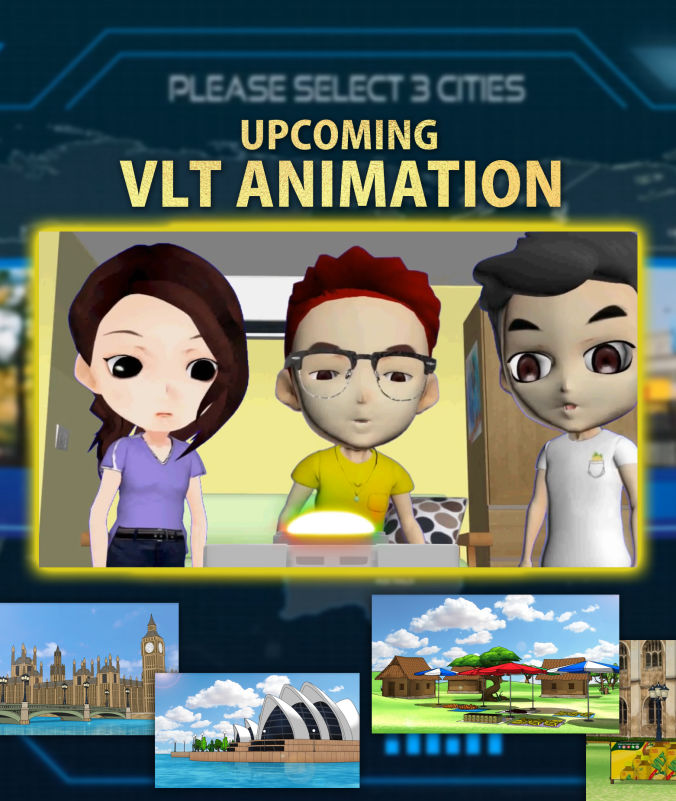
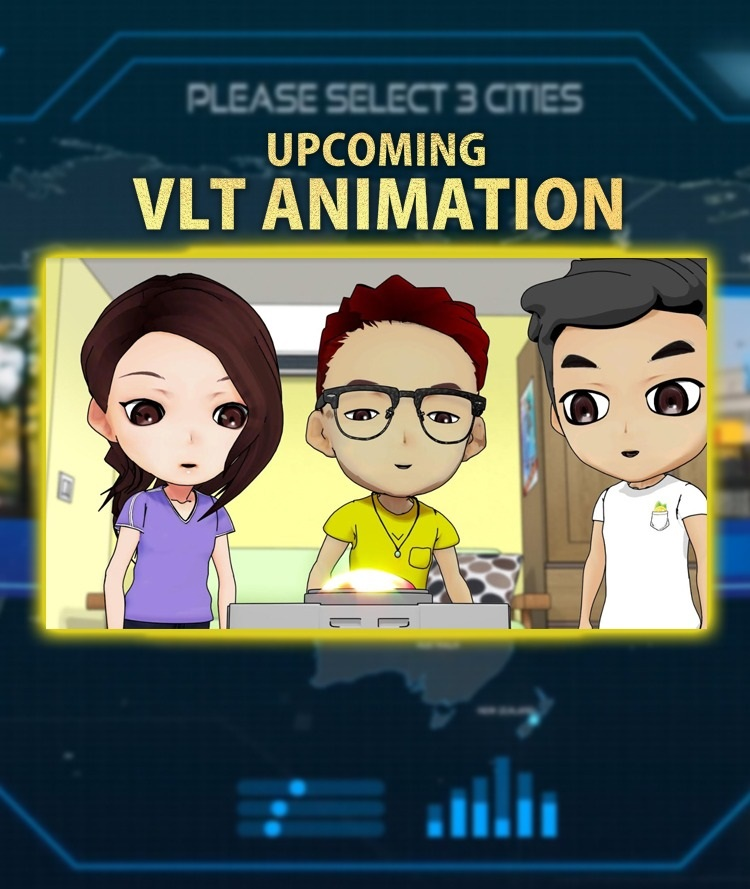
background image changes

diff --git a/src/app/app.module.ts b/src/app/app.module.ts
@@ -15,8 +15,14 @@ import { FormsModule } from '@angular/forms';
 import { AngularFirestore, AngularFirestoreModule } from '@angular/fire/firestore';
 
 const firebaseConfig = {
-  // add config and remove it before promoting code same goes with environment.ts
- 
+  apiKey: 'AIzaSyBeUW5Jj2O4Vuk4-6qADFUmfJe4A0_xoqU',
+  authDomain: 'mahjong-c2571.firebaseapp.com',
+  databaseURL: 'https://mahjong-c2571.firebaseio.com',
+  projectId: 'mahjong-c2571',
+  storageBucket: 'mahjong-c2571.appspot.com',
+  messagingSenderId: '195224008416',
+  appId: '1:195224008416:web:fb7f5acb9212cd21248285',
+  measurementId: 'G-WBCPTTD8DC'
 };
 
 @NgModule({

diff --git a/src/app/home/home.page.scss b/src/app/home/home.page.scss
@@ -1,5 +1,5 @@
 .bg-image {
-    background: url('../../assets/images/scan_back.png');
+    background: url('../../assets/images/background_green.png');
     background-size: cover;
     min-height: 100vh;
   }

diff --git a/src/app/scoreboard/scoreboard.page.scss b/src/app/scoreboard/scoreboard.page.scss
@@ -1,5 +1,5 @@
 .bg-image {
-    background: url('../../assets/images/scan_back.png');
+    background: url('../../assets/images/background_green.png');
     background-size: cover;
     min-height: 100vh;
 }

diff --git a/src/app/scored/scored.page.scss b/src/app/scored/scored.page.scss
@@ -1,5 +1,5 @@
 .bg-image {
-  background: url('../../assets/images/scan_back.png');
+  background: url('../../assets/images/background_green.png');
   background-size: cover;
   min-height: 100vh;
 }
